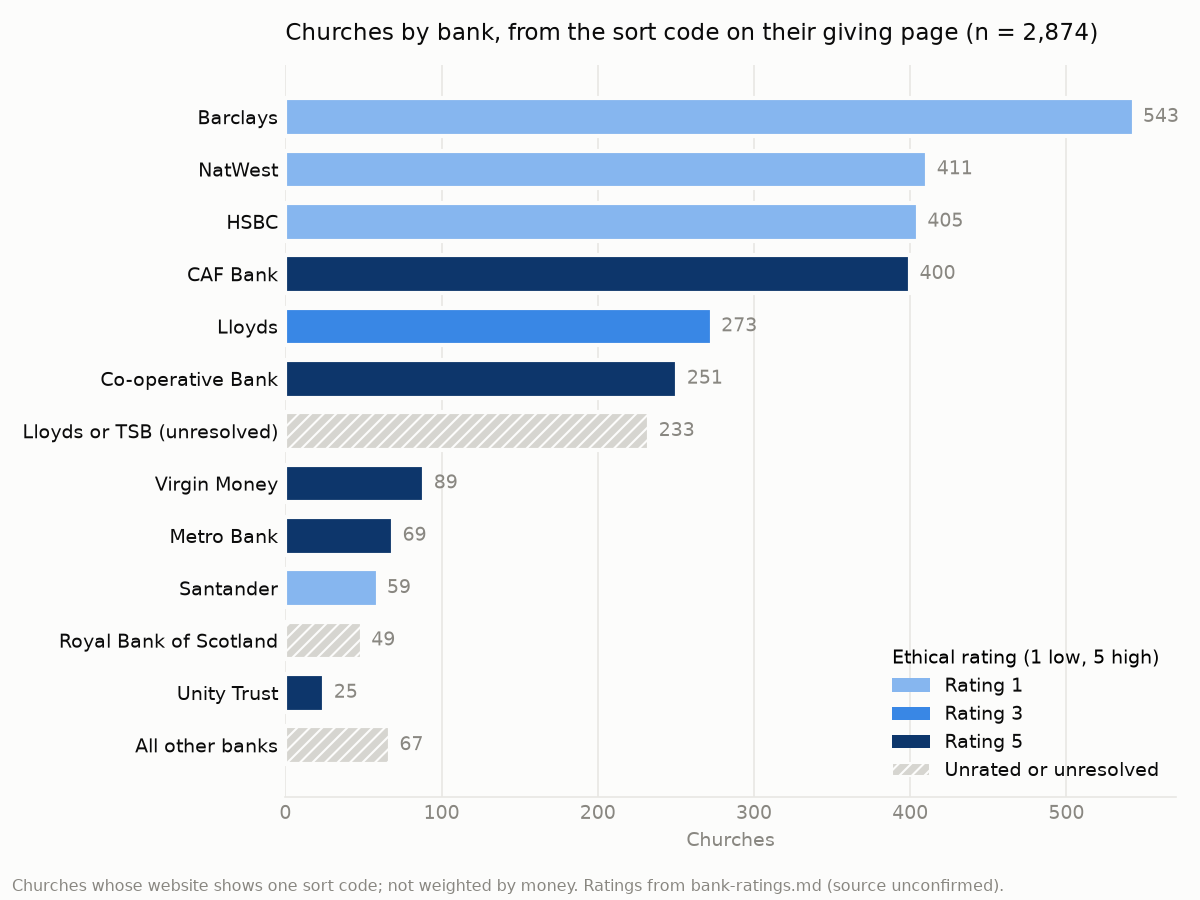
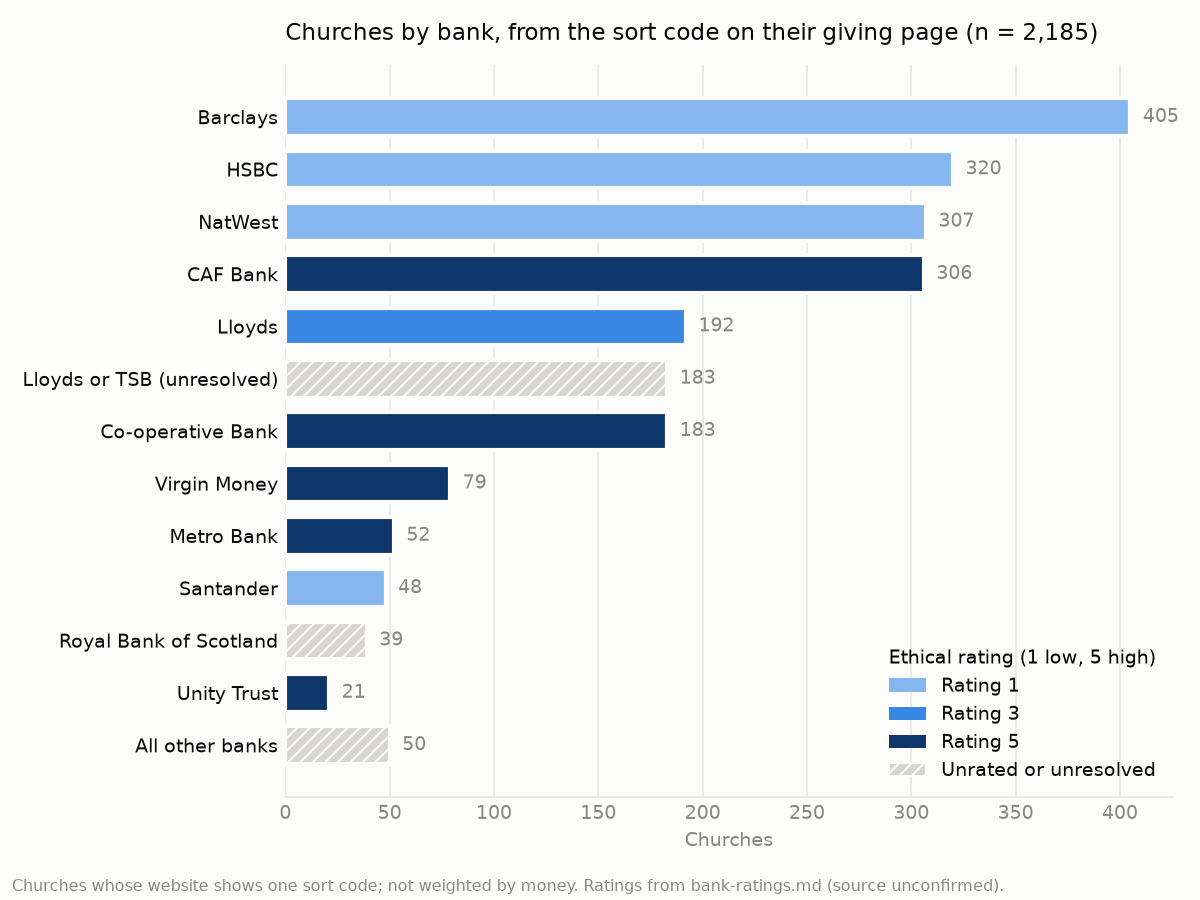
Headline and chart on confirmed churches only
SUMMARY leads with the 2,185 single-code confirmed churches (split unchanged
at 50/10/29/11), updates the teammates'-list comparison and next steps;
make_chart.py draws churches only once church_check.py has run.

Claude-Session: https://claude.ai/code/session_01DDRExFZReRj7SfXE2sA8hd

diff --git a/sortcodes/make_chart.py b/sortcodes/make_chart.py
@@ -22,7 +22,8 @@ UNRATED = "#d6d5d0"
 
 def main(path=RESULTS / "church_banks_extended.csv"):
     with open(path, encoding="utf-8", newline="") as f:
-        rows = [r for r in csv.DictReader(f) if ";" not in r["match"]]  # one sort code per church
+        # one sort code per church; confirmed churches only once church_check.py has run
+        rows = [r for r in csv.DictReader(f) if ";" not in r["match"] and r.get("church_check", "church") == "church"]
 
     counts, rating_of = Counter(), {}
     for r in rows:

diff --git a/sortcodes/SUMMARY.md b/sortcodes/SUMMARY.md
@@ -8,18 +8,18 @@ Many churches never name their bank, but their website giving page shows a sort 
 
 ## Headline numbers
 
-- **2,949 churches** show a sort code on their website. **2,874** show exactly one.
-- Of the 2,874, by the bank's ethical rating in `bank-ratings.md`:
+- **2,949 charities and churches** show a sort code on their website. **2,252** of them are confirmed churches (a congregation or its PCC, see "Is every row a church?"), and **2,185** of those show exactly one code.
+- Of the 2,185 churches, by the bank's ethical rating in `bank-ratings.md`:
 
 | Rating | Churches | Share |
 |---|---|---|
-| 1 (low) | 1,430 | 50% |
-| 3 | 296 | 10% |
-| 5 (high) | 837 | 29% |
-| Unrated or unresolved | 311 | 11% |
+| 1 (low) | 1,089 | 50% |
+| 3 | 212 | 10% |
+| 5 (high) | 644 | 29% |
+| Unrated or unresolved | 240 | 11% |
 
-- Biggest banks: Barclays 543, NatWest 411, HSBC 405, CAF Bank 400, Lloyds 273, Co-operative Bank 251.
-- **Churches only** (`church_check = church`, see "Is every row a church?"): 2,185 show exactly one code. Rating 1: 1,089 (50%), rating 3: 212 (10%), rating 5: 644 (29%), unrated or unresolved: 240 (11%). The split barely moves when non-churches are removed.
+- Biggest banks: Barclays 405, HSBC 320, NatWest 307, CAF Bank 306, Lloyds 192, Co-operative Bank 183; 183 more are Lloyds or TSB, unresolved.
+- **All 2,874 single-code rows, non-churches included,** split almost the same way: 1,430 (50%) rating 1, 296 (10%) rating 3, 837 (29%) rating 5, 311 (11%) unrated. Removing non-churches does not change the headline.
 - **Accuracy:** on 719 church pages from the team crawl that print one sort code with one bank named beside it, the table agreed with the page 711 times (**98.9%**), measured before any church-page rows were added. For the newer sources see "Where the churches came from".
 
 ## Where the churches came from
@@ -54,7 +54,7 @@ Not all of them. `church_check.py` marks each row `church` (a congregation or it
 - **Accuracy of the rules (hand-checked samples of 50):** 48 of 50 `church` rows are clearly congregations (misses: a religious order and a church-and-industry centre); 49 of 50 `not_church` rows are clearly not (the miss has been fixed).
 - **Review step:** agent calls are judgement from public text, not verified fact. The site check confirmed service times for 87 of the 119 churches the agents named; the other 32 were kept or moved to `unsure` by reading their activities.
 - **OpenStreetMap overrides 16 rule-based `not_church` rows**, mostly Friends-of groups and church halls whose giving page is the church's own site. The sort code on those pages is probably the church's account, so `church` is defensible there; the old rule result is kept in `church_reason`.
-- **The teammates' list disagrees on 164 rows:** it keeps mosques, Friends-of groups and church schools that this check rejects. It is useful as one signal, not as the definition.
+- **The teammates' church list (`filtered data.csv`) disagrees on 478 rows:** it keeps 464 rows marked `not_church` here (mission agencies, mosques, Friends-of groups, church schools) and leaves out 14 marked `church`. It adds no new charities, websites or banks (all 23,188 rows are in the team list with identical values), so it is used as one signal, not as the definition.
 - A church-attached fund, hall, school or Christian charity counts as `not_church`, because Bank Well's target is the congregation's own bank account.
 
 ## Files
@@ -103,5 +103,5 @@ Join to anything else on **`charity_number`** (OpenStreetMap rows use `osm:<type
 
 1. **Read the "Bankers" line from the accounts PDFs** (about 7,600 Charity Commission and 2,300 Companies House documents already downloaded by the crawl). This covers churches with no sort code online and gives an independent check on these results.
 2. Weight by money: join to income or cash figures to estimate how much church money sits at each rating.
-3. Filter out non-churches and hand-check the 253 shared-page rows and the 13 new-row conflicts.
+3. Decide the 42 `unsure` rows (`results/church_check_review.csv`, record in `church_check_decisions.csv`), and hand-check the 253 shared-page rows and the 13 new-row conflicts.
 4. Settle more Lloyds/TSB codes as church pages or published statements name them.

diff --git a/sortcodes/README.md b/sortcodes/README.md
@@ -1,6 +1,6 @@
 # Sort code to bank lookup
 
-**Results for 2,949 churches are in [SUMMARY.md](SUMMARY.md)** (`results/church_banks_extended.csv`, `results/sort_code_map_extended.csv`, chart). The team crawl alone (2,401 churches) is in `results/church_banks.csv`; rebuild it with `python church_banks.py annotate --crawl bankwell_churches_matched.csv`. See "Adding other sources" below for the full set.
+**Results for 2,949 charities and churches (2,252 confirmed churches) are in [SUMMARY.md](SUMMARY.md)** (`results/church_banks_extended.csv`, `results/sort_code_map_extended.csv`, chart). The team crawl alone (2,401 churches) is in `results/church_banks.csv`; rebuild it with `python church_banks.py annotate --crawl bankwell_churches_matched.csv`. See "Adding other sources" below for the full set.
 
 Many churches never name their bank in their Charity Commission filings, but their website giving page often shows a sort code. This folder turns a UK sort code into the bank that holds the account (brand and parent group), using a table built only from public sources.
 
@@ -80,7 +80,7 @@ python crosscheck.py 60-01-73:00216252 20-27-41 --limit 20
 python crawl_sort_codes.py --churches sites.csv --out C:\Users\Brian\bankwell-data\team_recrawl\s0 --workers 16
 ```
 
-`extend_sources.py` joins every source and writes `results/church_banks_extended.csv` and `results/sort_code_map_extended.csv` (it reuses `church_banks.annotate`, so team-crawl rows keep the same banks; only `likely_note` wording can shift as new pages add Lloyds/TSB evidence). Then `python make_chart.py` redraws the chart. The 10 October run (inputs kept outside the repo in `C:\Users\Brian\bankwell-data\`):
+`extend_sources.py` joins every source and writes `results/church_banks_extended.csv` and `results/sort_code_map_extended.csv` (it reuses `church_banks.annotate`, so team-crawl rows keep the same banks; only `likely_note` wording can shift as new pages add Lloyds/TSB evidence). Then run `church_check.py` (below), then `python make_chart.py` redraws the chart from confirmed churches only. The 10 October run (inputs kept outside the repo in `C:\Users\Brian\bankwell-data\`):
 
 ```
 python extend_sources.py --team-crawl ..\..\bankwell_churches_matched.csv ^
